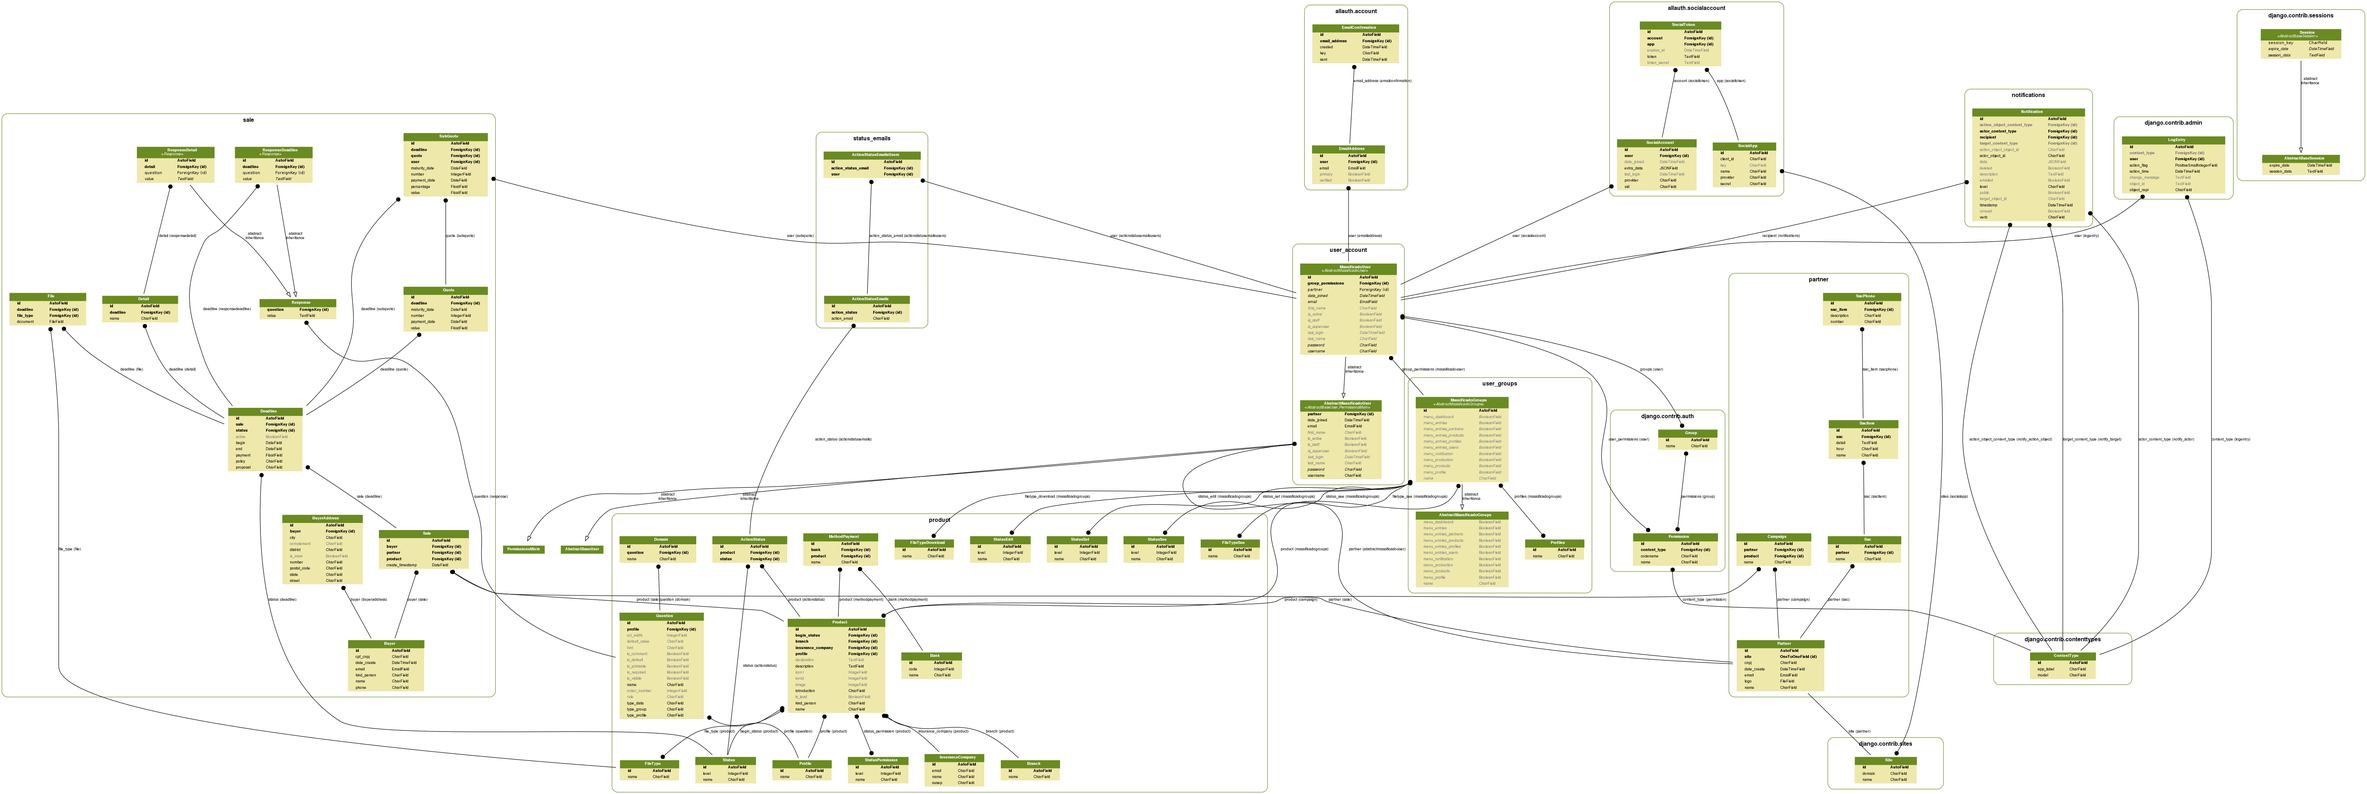
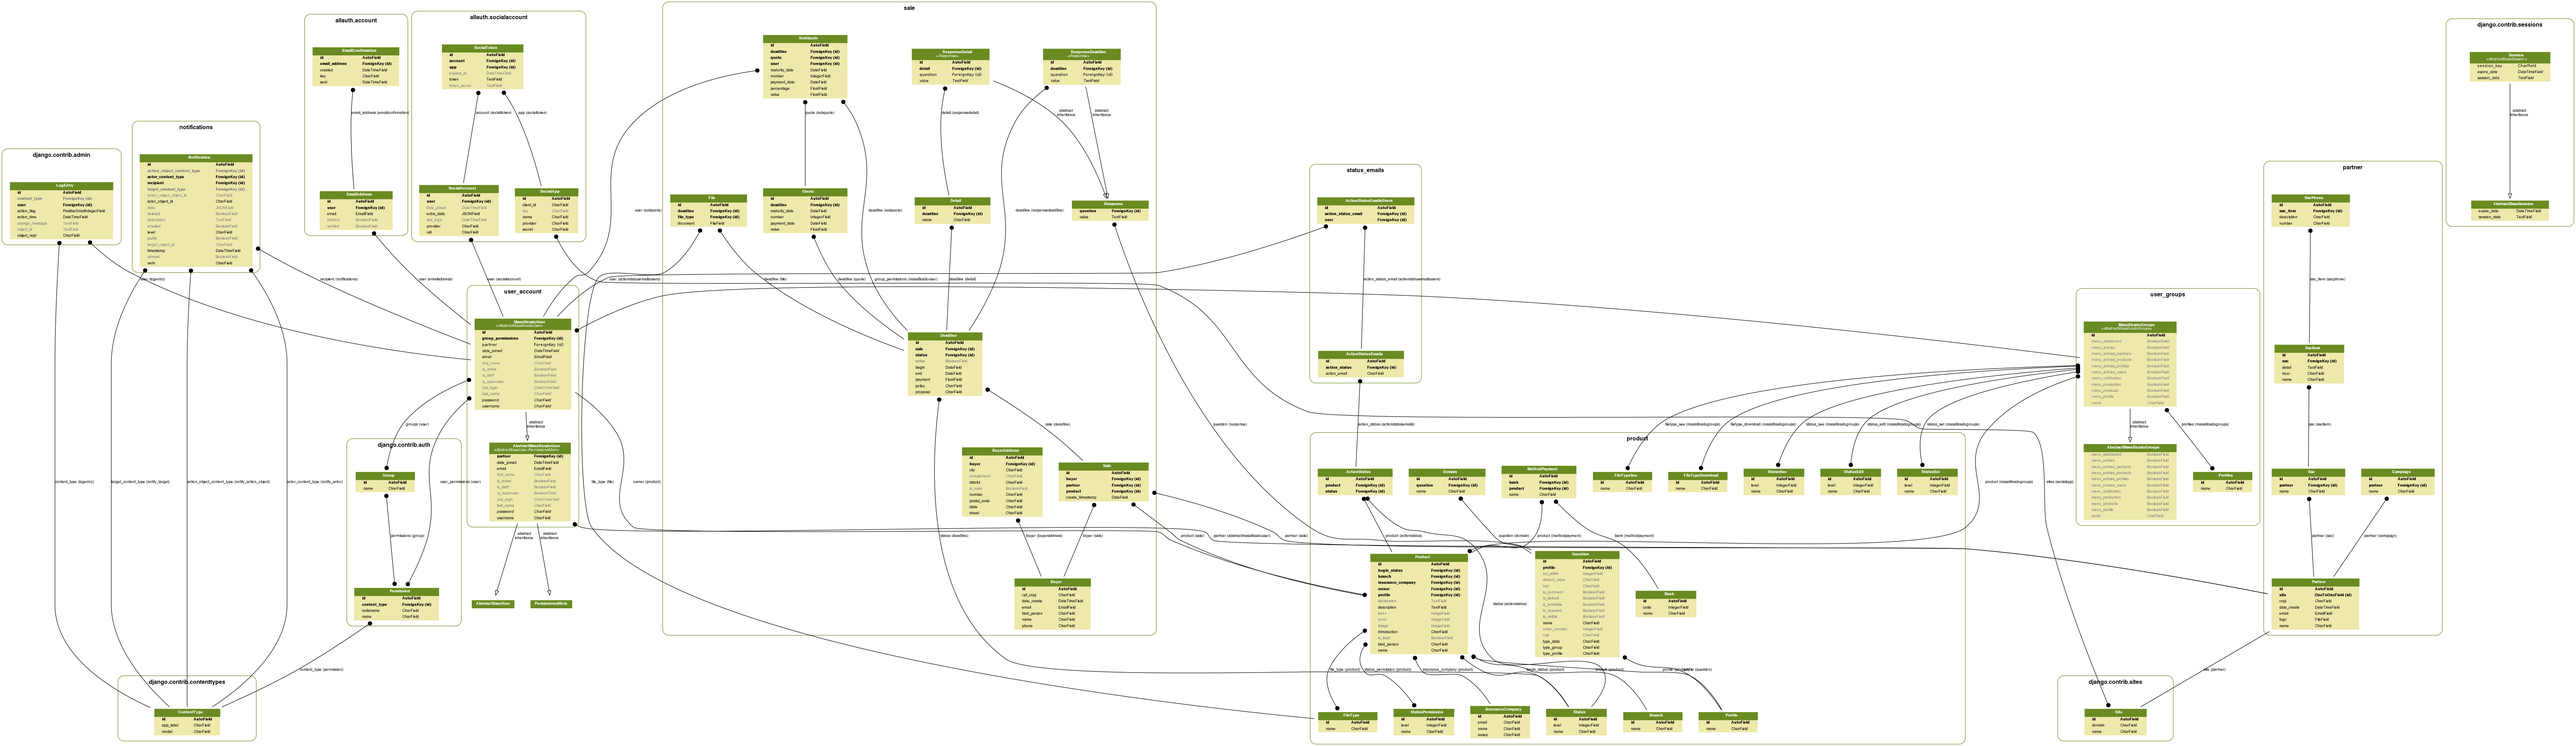
Send notifications on alter Status on Sale, based on mode ActionStatusEmail

diff --git a/themes/default/templates/header.html b/themes/default/templates/header.html
@@ -30,37 +30,36 @@
 {#        <li><a href="{% if request.get_full_path != '/' %}/{% endif %}#sec-contact" class="page-scroll">{% trans "Contact Us" %}</a></li>#}
 {#        <li><a href="{% url 'sac' %}" class="page-scroll">{% trans "SAC" %}</a></li>#}
         {% if user.is_authenticated %}
-            {% if user.is_admin or user.is_superuser %}
-                <li><a href="{% if request.get_full_path != '/' %}/{% endif %}#dashBoard" class="page-scroll">
-                        <span class="fa fa-area-chart fa-lg hidden-sm"></span>
-                        {% trans "Dashboard" %}
-                    </a>
-                </li>
-                <li><a href="{% url 'production' %}" class="page-scroll">
-                    <span class="fa fa-list fa-lg hidden-sm"></span>
-                    {% trans "Production" %}
-                    </a>
-                </li>
-                <li><a href="{% url 'entries' %}" class="page-scroll">
-                    <span class="fa fa-edit fa-lg hidden-sm"></span>
-                    {% trans "Entries" %}
-                    </a>
-                </li>
-                <li><a href="{% url 'notifications' %}">
-                        {% register_notify_callbacks callbacks='fill_notification_list,fill_notification_badge' as X %}
-                        {{ X|safe }}
-                        {% notifications_unread as unread_count %}
-                        {% if unread_count %}
-                            <span  class="fa fa-bell faa-ring animated faa-slow alert-bell fa-2x hidden-sm"></span>
-                            <span id="live_notify_badge" class="badge">{{unread_count}}</span>
-                        {% else %}
-                          <span class="fa fa-bell alert-bell"></span>
-                        {% endif %}
+            <li><a href="{% if request.get_full_path != '/' %}/{% endif %}#dashBoard" class="page-scroll">
+                    <span class="fa fa-area-chart fa-lg hidden-sm"></span>
+                    {% trans "Dashboard" %}
+                </a>
+            </li>
+            <li><a href="{% url 'production' %}" class="page-scroll">
+                <span class="fa fa-list fa-lg hidden-sm"></span>
+                {% trans "Production" %}
+                </a>
+            </li>
+            <li><a href="{% url 'entries' %}" class="page-scroll">
+                <span class="fa fa-edit fa-lg hidden-sm"></span>
+                {% trans "Entries" %}
+                </a>
+            </li>
+            <li>
+                <a href="{% url 'notifications' %}">
+                    {% register_notify_callbacks callbacks='fill_notification_list,fill_notification_badge' as X %}
+                    {{ X|safe }}
+                    {% notifications_unread as unread_count %}
+                    {% if unread_count %}
+                        <span  class="fa fa-bell faa-ring animated faa-slow alert-bell fa-2x hidden-sm"></span>
+                        <span id="live_notify_badge" class="badge">{{unread_count}}</span>
+                    {% else %}
+                      <span class="fa fa-bell alert-bell"></span>
+                    {% endif %}
 {#                      <span class="fa fa-bell fa-2x"></span>#}
-                        {% trans "Notifications" %}
-                    </a>
-                </li>
-            {% endif %}
+                    {% trans "Notifications" %}
+                </a>
+            </li>
             <li class="dropdown">
                 <a class="dropdown-toggle" data-toggle="dropdown" href="#">
                     <span class="glyphicon glyphicon-user"></span>

diff --git a/sale/views.py b/sale/views.py
@@ -6,7 +6,7 @@ from django.core.paginator import Paginator
 # from django.views.generic.detail import DetailView
 from django.views.generic.edit import CreateView, UpdateView
 from django.views.generic import ListView
-from .models import Sale, Partner, Buyer, Status, ResponseDetail, ResponseDeadline
+from .models import Sale, Partner, Buyer, Status, ResponseDeadline
 from .forms import BuyerForm, AddressBuyerFormset, FileDeadlineFormset, DeadlineSaleFormset, DetailDeadlineFormset
 from product.models import Product, Question
 
@@ -29,10 +29,10 @@ class CreateBuyerView(LoginRequiredMixin, CreateView):
 
     def get_context_data(self, **kwargs):
         data = super(CreateBuyerView, self).get_context_data(**kwargs)
-        data['productpk'] = self.kwargs['productpk']
+        product = Product.objects.get(pk=self.kwargs['productpk'])
+        data['product'] = product
         data['addressbuyer'] = AddressBuyerFormset()
         data['show_all'] = False
-        product = Product.objects.get(pk=self.kwargs['productpk'])
         data['status_deadline'] = product.begin_status
         # todo: filter user permissions
         data['possible_new_status'] = Status.objects.filter(level__gte=product.begin_status.level).order_by('level')
@@ -54,13 +54,12 @@ class CreateBuyerView(LoginRequiredMixin, CreateView):
 
         for form in addresses.forms:
             if form.is_valid():
-                form.instance.buyer = self.object
+                form.instance   .buyer = self.object
                 form.save()
 
         sale = Sale()
         sale.product = Product.objects.get(pk=self.request.POST['productpk'])
         sale.buyer = self.object
-        # todo: Tirar esse hardcode do pértinêr
         sale.partner = Partner.objects.get(id=1)
         sale.save()
 
@@ -107,13 +106,15 @@ class EditBuyerView(LoginRequiredMixin, UpdateView):
         data = super(EditBuyerView, self).get_context_data(**kwargs)
         data['addressbuyer'] = AddressBuyerFormset(instance=self.object)
         data['show_all'] = False
+        data['product'] = Product.objects.get(pk=self.kwargs['productpk'])
         if not Product.objects.get(pk=self.kwargs['productpk']).is_lead:
             data['show_all'] = True
             sale = self.object.sale_set.all()[0]
             data['deadlinesale'] = DeadlineSaleFormset(instance=sale)
             data['status_deadline'] = sale.deadline_set.all()[0].status
             # todo: filter user permissions
-            data['possible_new_status'] = Status.objects.filter(level__gte=sale.deadline_set.all()[0].status.level).order_by('level')
+            data['possible_new_status'] = Status.objects.filter(
+                level__gte=sale.deadline_set.all()[0].status.level).order_by('level')
             if sale.deadline_set.all():
                 data['filedeadline'] = FileDeadlineFormset(instance=sale.deadline_set.all()[0])
             else:
@@ -152,8 +153,9 @@ class EditBuyerView(LoginRequiredMixin, UpdateView):
             if form.is_valid():
                 # form.object.status_id = self.request.POST.get('new-status', '')
                 dl = form.save()
-                dl.status_id = self.request.POST.get('new-status', '')
-                dl.save()
+                if self.request.POST.get('new-status', ''):
+                    dl.status_id = self.request.POST.get('new-status', '')
+                    dl.save()
 
                 for k, v in self.request.POST.iteritems():
                     if k.split('-')[0] == 'q_resp':

diff --git a/sale/models.py b/sale/models.py
@@ -66,40 +66,40 @@ class Deadline(models.Model):
     def get_questions(self):
         return self.sale.product.profile.questions_set.get(type_profile='pdl')
 
-    def save(self):
+    def save(self, *a, **kw):
         if not self.status_id:
             self.status = self.sale.product.begin_status
 
+        resp = super(Deadline, self).save(*a, **kw)
+
         if self.pk is not None:
-            old = Deadline.object.get(pk=self.pk)
+            new = Deadline.objects.get(pk=self.pk)
+            if new.status != self.status:
+                if new.status.actionstatus_set.filter(product=self.sale.product).exists():
+                    status_emails = new.status.actionstatus_set.get(
+                        product=self.sale.product).actionstatusemails_set.all()
+                    if status_emails:
+                        recipients = ()
+                        for status_email in status_emails:
+                            if status_email.action_email == 'own':
+                                recipients += (self.sale.product.owner, )
+                            elif status_email.action_emali == 'buy':
+                                recipients += (self.sale.buyer.email, )
+                            elif status_email.action_emali == 'inc':
+                                recipients += (self.sale.product.insurance_company.email, )
+                            elif status_email.action_emali == 'usr':
+                                for user in status_email.action_status_emails_users_set:
+                                    recipients += (user, )
 
-            if old.status != self.status:
+                        notification = Notification(actor=self, recipient=recipients)
+                        notification.send(
+                            _('Sale [%d] has status changed') % (self.pk),
+                            _('The Sale [%d] has status changed from %s to %s') % (
+                                self.pk, self.status, new.status
+                            )
+                        )
 
-                status_emails = self.status.action_status_set.objects.get(product=self.product).action_status_emails_set
-                recipients = ()
-
-                for status_email in status_emails:
-                    if status_email.action_email == 'own':
-                        recipients += (self.deadline.sale.product.owner, )
-                    elif status_email.action_emali == 'buy':
-                        recipients += (self.sale.buyer.email, )
-                    elif status_email.action_emali == 'inc':
-                        recipients += (self.sale.product.insurance_company.email, )
-                    elif status_email.action_emali == 'usr':
-                        for user in status_email.action_status_emails_users_set:
-                            recipients += (user, )
-
-                notification = Notification(actor=self, recipient=recipients)
-                notification.send(
-                    _('Sale [%d] has status changed') % (self.pk),
-                    _('The Sale [%d] has status changed from %s to %s') % (
-                        '[' + self.pk + ']', '<b>',
-                        '<b>' + old.status + '</b>',
-                        '<b>' + self.status + '</b>',
-                    )
-                )
-
-        return super(Deadline, self).save()
+        return resp
 
 
 class File(models.Model):

diff --git a/core/notification.py b/core/notification.py
@@ -26,20 +26,21 @@ class Notification(object):
 
         if not self.recipient:
             raise Exception(_('No recipients found to send the notification'))
-
-        if self.recipient is MassificadoUser:
+        # import ipdb; ipdb.set_trace()
+        mail_recipient = notify_recipient = ()
+        if isinstance(self.recipient, MassificadoUser):
             mail_recipient = self.recipient.email
             notify_recipient = self.recipient
-        elif self.recipient is Group:
+        elif isinstance(self.recipient, Group):
             notify_recipient = Group
             mail_recipient = ()
             for user in Group:
                 mail_recipient += (user.email,)
-        elif self.recipient is list:
+        elif isinstance(self.recipient, tuple) or isinstance(self.recipient, list):
             for recipient in self.recipient:
-                if recipient is MassificadoUser:
+                if isinstance(recipient, MassificadoUser):
                     mail_recipient += (recipient.email, )
-                    notify_recipient += (recipient,)
+                    self.system_notification(self.actor, recipient, message)
                 else:
                     mail_recipient += (recipient, )
 

diff --git a/product/models.py b/product/models.py
@@ -2,7 +2,6 @@
 from __future__ import unicode_literals
 from django.db import models
 from django.utils.translation import ugettext_lazy as _
-# from user_account.models import MassificadoUser
 
 
 class InsuranceCompany(models.Model):
@@ -132,7 +131,7 @@ class Product(models.Model):
     is_lead = models.BooleanField(default=False)
     begin_status = models.ForeignKey(Status)
     profile = models.ForeignKey(Profile, null=True)
-    # owner = models.ForeignKey(MassificadoUser)
+    owner = models.ForeignKey('user_account.MassificadoUser', null=True)
 
     def __unicode__(self):
         return self.name
@@ -215,3 +214,6 @@ class Domain(models.Model):
 class ActionStatus(models.Model):
     product = models.ForeignKey(Product, on_delete=models.CASCADE)
     status = models.ForeignKey(Status, on_delete=models.CASCADE)
+
+    def __unicode__(self):
+        return '%s (%s)' % (self.product, self.status)

diff --git a/partner/models.py b/partner/models.py
@@ -1,7 +1,7 @@
 # -*- coding: utf-8 -*-
 from __future__ import unicode_literals
 from django.db import models
-from product.models import Product
+# from product.models import Product
 from django.utils import timezone
 from django.utils.translation import ugettext_lazy as _
 from django.contrib.sites.models import Site
@@ -33,10 +33,10 @@ class Campaign(models.Model):
         Partner,
         on_delete=models.CASCADE
     )
-    product = models.ForeignKey(
-        Product,
-        on_delete=models.CASCADE
-    )
+    # product = models.ForeignKey(
+    #     Product,
+    #     on_delete=models.CASCADE
+    # )
 
     def __unicode__(self):
         return self.name

diff --git a/massificados/settings.py b/massificados/settings.py
@@ -223,10 +223,11 @@ BOOTSTRAP3 = {
     'required_css_class': 'form-required',
 }
 
-# EMAIL_HOST = 'smtp.gmail.net'
-# EMAIL_HOST_USER = 'sendgrid_username'
-# EMAIL_HOST_PASSWORD = 'sendgrid_password'
-# EMAIL_PORT = 587
-# EMAIL_USE_TLS = True
+EMAIL_BACKEND = 'django.core.mail.backends.smtp.EmailBackend'
+EMAIL_HOST = 'smtp.gmail.com'
+EMAIL_HOST_USER = 'gustavo.silva.vs'
+EMAIL_HOST_PASSWORD = 'XXXX'
+EMAIL_PORT = 587
+EMAIL_USE_TLS = True
 
 NOTIFICATION_FROM_EMAIL = 'noreply@lightstudios.com.br'

diff --git a/status_emails/models.py b/status_emails/models.py
@@ -24,6 +24,9 @@ class ActionStatusEmails(models.Model):
 
         return super(ActionStatusEmails, self).save()
 
+    def __unicode__(self):
+        return '%s - %s' % (self.action_status, self.action_email)
+
 
 class ActionStatusEmailsUsers(models.Model):
     action_status_email = models.ForeignKey(ActionStatusEmails, on_delete=models.CASCADE)

diff --git a/user_account/views.py b/user_account/views.py
@@ -125,4 +125,5 @@ class NotificationsView(LoginRequiredMixin, ListView):
     context_object_name = 'notifications'
 
     def get_queryset(self):
+        self.request.user.notifications.mark_all_as_read()
         return self.request.user.notifications.all()
